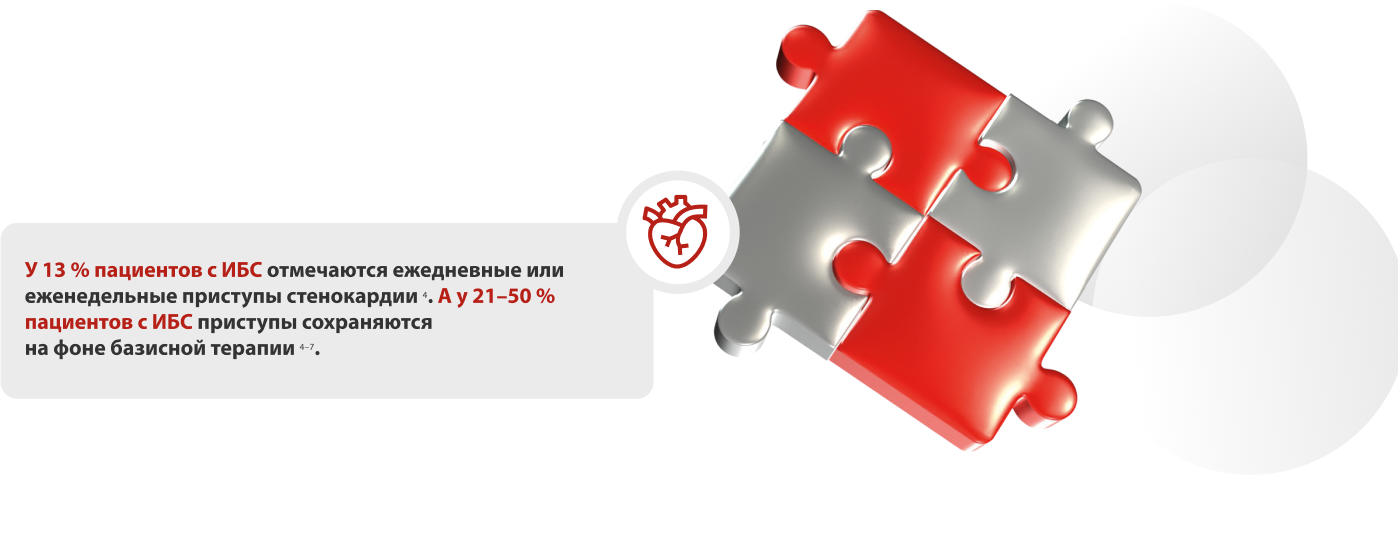
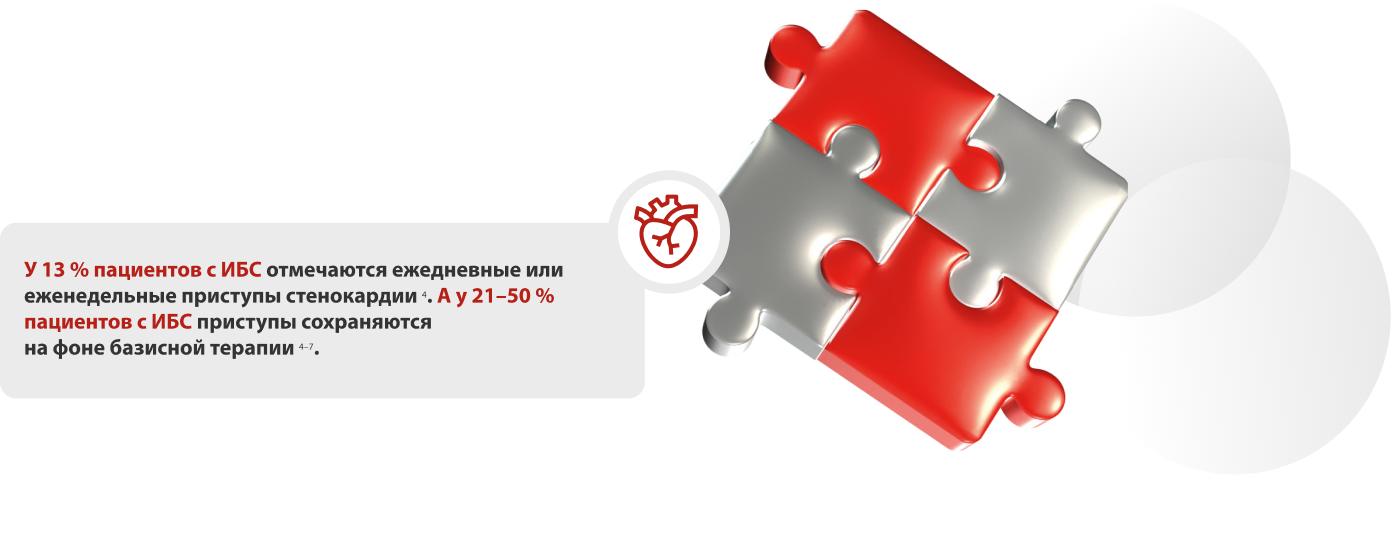
Add files via upload

Changed region(s): [[0.4309, 0.0, 0.8311, 0.8405], [0.0, 0.4803, 0.4001, 0.6904], [0.9234, 0.2402, 0.9542, 0.3302]]

diff --git a/style.css b/style.css
@@ -1157,7 +1157,8 @@ ul li img {
 
 .images-container {
     display: flex;
-    justify-content: space-between;
+    align-items: flex-start;
+    gap: 10%;
     padding-top: 100px;
 }
 
@@ -1336,11 +1337,10 @@ ul li img {
 
 .anniversary-extended {
     position: absolute;
-   
     top: 243px;
-    left: -545px;
-    width: 549px;
-    height: 301px;
+    left: -543.1px;
+    transform: rotateY(-54deg);
+    height: 58%;
 }
 .references-section {
     margin-top: 40px;
